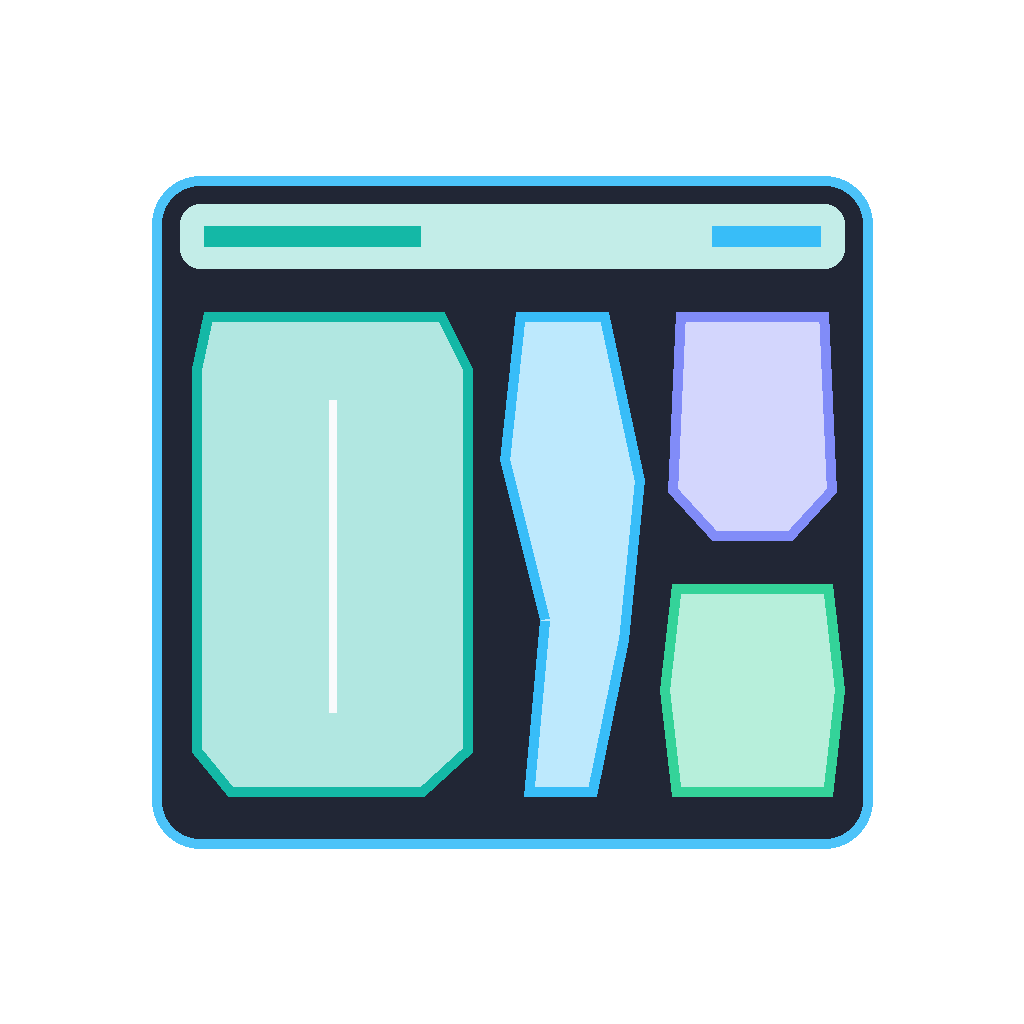
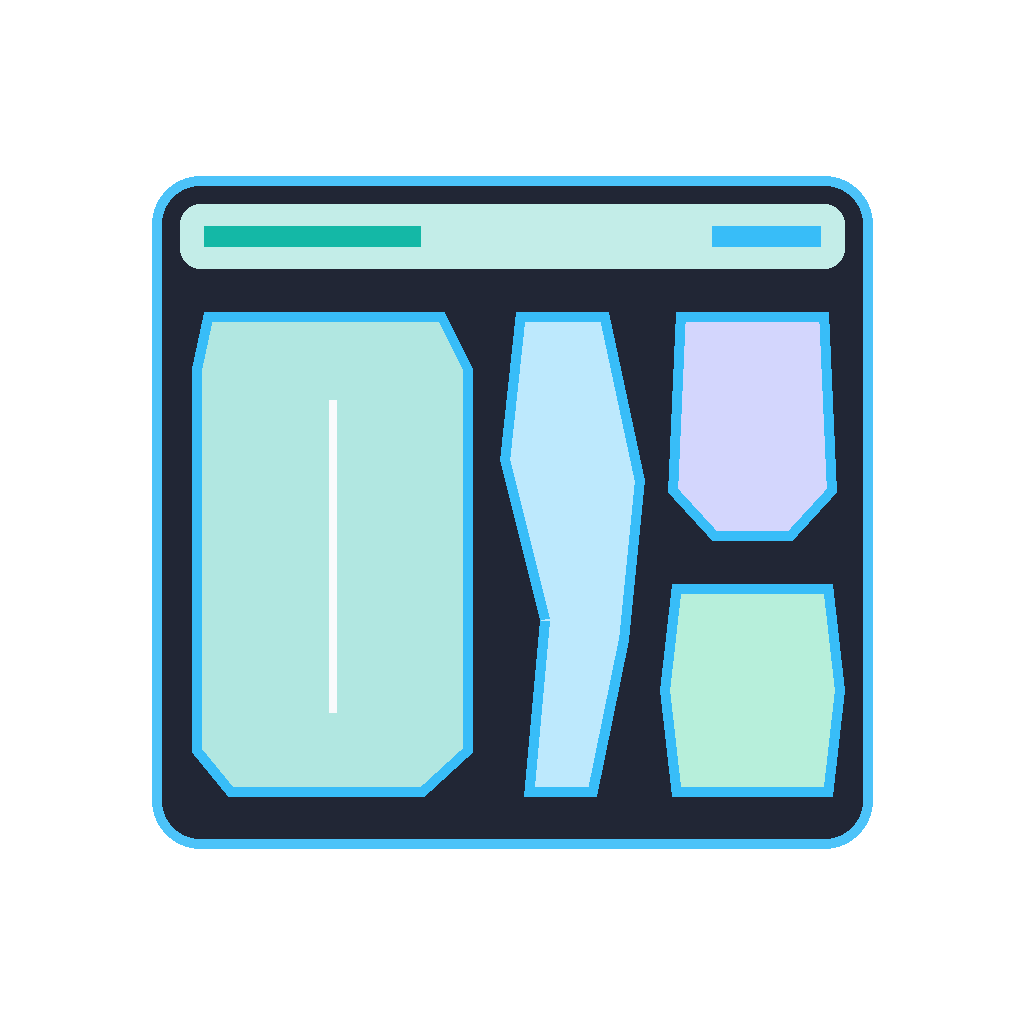
Update Mini Marker Studio 2026-11-25 13:09

Changed region(s): [[0.1875, 0.2812, 0.4688, 0.7812], [0.625, 0.5625, 0.8438, 0.7812], [0.6562, 0.2812, 0.8438, 0.5312]]

diff --git a/www/app.js b/www/app.js
@@ -1344,7 +1344,7 @@ function generateMiniMarker() {
       const effH = piece.autoRotate90 ? piece.width : piece.height;
       const drawSideBySide = false;
       const isGiant = (cSpan > 1 || rSpan > 1);
-      const pairScale = isGiant ? (piece.maxAllowedScale || globalUniformScale) : Math.min(globalUniformScale, piece.maxAllowedScale || globalUniformScale);
+      const pairScale = (isGiant ? (piece.maxAllowedScale || globalUniformScale) : Math.min(globalUniformScale, piece.maxAllowedScale || globalUniformScale)) * (piece.customScale || 1);
       const finalW = effW * pairScale, finalH = eh_val = effH * pairScale;
       const finalX = cx + leftOffset + (maxDrawW - finalW) / 2;
       const finalY = cy + topSpace + (maxDrawH - finalH) / 2;
@@ -1405,7 +1405,7 @@ function generateMiniMarker() {
             const py = finalY + ry * pairScale;
             if (i === 0) ctx.moveTo(px, py); else ctx.lineTo(px, py);
           });
-          ctx.strokeStyle = poly.isOuter ? '#0055ff' : '#64748b';
+          ctx.strokeStyle = poly.isOuter ? '#0000ff' : '#64748b';
           ctx.lineWidth = poly.isOuter ? 2.1 : 0.9;
           if (poly.isOuter) ctx.closePath();
           ctx.stroke();
@@ -3131,7 +3131,7 @@ function buildEditableVectorPdf() {
       const maxDrawW = Math.max(cellW - leftOffset - rightSpace, 24), maxDrawH = Math.max(cellH - topSpace - bottomSpace, 24);
       const ew = piece.autoRotate90 ? piece.height : piece.width, eh = piece.autoRotate90 ? piece.width : piece.height;
       const isGiant = (cSpan > 1 || rSpan > 1);
-      const pairScale = isGiant ? (piece.maxAllowedScale || globalUniformScale) : Math.min(globalUniformScale, piece.maxAllowedScale || globalUniformScale);
+      const pairScale = (isGiant ? (piece.maxAllowedScale || globalUniformScale) : Math.min(globalUniformScale, piece.maxAllowedScale || globalUniformScale)) * (piece.customScale || 1);
       const finalW = ew * pairScale, finalH = eh * pairScale;
       const finalX = cx + leftOffset + (maxDrawW - finalW) / 2, finalY = cy + topSpace + (maxDrawH - finalH) / 2;
       const centerDrawX = finalX + finalW / 2;
@@ -3270,7 +3270,7 @@ function buildCorelEditableSvg() {
     const leftOffset = (circleR * 2) + 8, rightSpace = p.qtyLabel ? 34 : 10;
     const maxDrawW = Math.max(cellW - leftOffset - rightSpace, 24), maxDrawH = Math.max(cellH - topSpace - bottomSpace, 24);
     const ew = p.autoRotate90 ? p.height : p.width, eh = p.autoRotate90 ? p.width : p.height;
-    const sc = Math.min(globalScale, p.maxAllowedScale || globalScale), finalW = ew * sc, finalH = eh * sc;
+    const sc = (Math.min(globalScale, p.maxAllowedScale || globalScale) * (p.customScale || 1)), finalW = ew * sc, finalH = eh * sc;
     const finalX = cx + leftOffset + (maxDrawW - finalW) / 2, finalY = cy + topSpace + (maxDrawH - finalH) / 2;
     const pos = calcSmartCirclePos(p, cx, cy, cellW, finalX, finalY, finalW, finalH, circleR);
 
@@ -3282,7 +3282,7 @@ function buildCorelEditableSvg() {
       p.polygons.forEach(poly => {
         if (!poly.pts || poly.pts.length < 2) return;
         const ptsStr = poly.pts.map(pt => ((finalX + (p.autoRotate90 ? pt.y : pt.x) * sc).toFixed(2) + ',' + (finalY + (p.autoRotate90 ? pt.x : pt.y) * sc).toFixed(2))).join(' ');
-        out.push('<' + (poly.isOuter ? 'polygon' : 'polyline') + ' points="' + ptsStr + '" fill="none" stroke="' + (poly.isOuter ? '#0055ff' : '#64748b') + '" stroke-width="' + (poly.isOuter ? '2.1' : '0.9') + '"/>');
+        out.push('<' + (poly.isOuter ? 'polygon' : 'polyline') + ' points="' + ptsStr + '" fill="none" stroke="' + (poly.isOuter ? '#0000ff' : '#64748b') + '" stroke-width="' + (poly.isOuter ? '2.1' : '0.9') + '"/>');
       });
     }
     const textX = (finalX + finalW / 2).toFixed(1), py1 = (finalY + finalH + labelSize + 4).toFixed(1);
@@ -3497,15 +3497,38 @@ window.openQuickPatternEditor = function(piece) {
         </div>
       </div>
 
-      <div style="display:flex; gap:8px; margin-top:6px;">
-        <button type="button" id="qpSaveBtn" class="btn" style="flex:1.4; padding:11px; font-size:13px; margin:0;">💾 TERAPKAN</button>
+      <div style="margin-bottom:8px;">
+          <label style="font-size:11px; color:var(--muted); display:block; margin-bottom:4px;">SKALA PATTERN INI (ANGKA PENGALI):</label>
+          <div style="display:flex; align-items:center; gap:6px;">
+            <button type="button" id="qpScaleMinus" style="width:42px; height:36px; border-radius:8px; border:1px solid rgba(20,184,166,0.5); background:#141b29; color:#5eead4; font-size:18px; font-weight:800; cursor:pointer;">-</button>
+            <input type="number" id="qpScale" step="0.1" min="0.2" max="3.0" value="${Number(piece.customScale || 1).toFixed(1)}" style="flex:1; text-align:center; font-weight:800; font-size:14px; margin:0;" />
+            <button type="button" id="qpScalePlus" style="width:42px; height:36px; border-radius:8px; border:1px solid rgba(20,184,166,0.5); background:#141b29; color:#5eead4; font-size:18px; font-weight:800; cursor:pointer;">+</button>
+          </div>
+        </div>
+        <div style="display:flex; gap:8px; margin-top:6px;">
+          <button type="button" id="qpSaveBtn" class="btn" style="flex:1.4; padding:11px; font-size:13px; margin:0;">💾 TERAPKAN</button>
         <button type="button" onclick="document.getElementById('quickPatternModal').style.display='none'" class="btn btn-secondary" style="flex:0.8; padding:11px; font-size:12px; margin:0;">BATAL</button>
       </div>
     </div>
   `;
   modal.style.display = "flex";
 
+  const applyLivePieceScale = (delta) => {
+    const inp = document.getElementById("qpScale");
+    if (!inp) return;
+    let v = Math.round(((parseFloat(inp.value) || 1) + delta) * 10) / 10;
+    v = Math.min(3.0, Math.max(0.2, v));
+    inp.value = v.toFixed(1);
+    piece.customScale = v;
+    if (typeof forceInstantCanvasRefresh === "function") forceInstantCanvasRefresh();
+    else if (typeof generateMiniMarker === "function") generateMiniMarker();
+  };
+  document.getElementById("qpScaleMinus").onclick = () => applyLivePieceScale(-0.1);
+  document.getElementById("qpScalePlus").onclick = () => applyLivePieceScale(0.1);
+  document.getElementById("qpScale").onchange = () => applyLivePieceScale(0);
+
   document.getElementById("qpSaveBtn").onclick = function() {
+    piece.customScale = Math.min(3.0, Math.max(0.2, parseFloat(document.getElementById("qpScale").value) || 1));
     piece.name = (document.getElementById("qpName").value || piece.name).trim().toUpperCase();
     piece.sizeText = (document.getElementById("qpSize").value || piece.sizeText).trim();
     piece.fabric = document.getElementById("qpFab").value || piece.fabric;
@@ -3738,7 +3761,7 @@ function handleLululemonExcelUpload(event) {
 
       workbook.SheetNames.forEach(sheetName => {
         const rows = XLSX.utils.sheet_to_json(workbook.Sheets[sheetName], { header: 1, defval: '' });
-        let curBuyer = '', curModel = '', curCw = '', hdr = null;
+        let curBuyer = '', curModel = '', curCw = '', blockColor = '', hdr = null;
 
         rows.forEach(rawRow => {
           const cells = rawRow.map(c => String(c || '').trim());
@@ -3753,6 +3776,7 @@ function handleLululemonExcelUpload(event) {
             }
             if (/^COLORWAY\s*:/i.test(c)) {
               curCw = c.replace(/^COLORWAY\s*:/i, '').trim();
+              blockColor = '';
               hdr = null;
             }
           });
@@ -3790,7 +3814,8 @@ function handleLululemonExcelUpload(event) {
           const specName = hdr.spec !== -1 ? (cells.at(hdr.spec) || '') : '';
           const rowColor = (hdr.color < cells.length ? (cells.at(hdr.color) || '') : '').trim().toUpperCase();
 
-          const cwLabel = (curCw || rowColor || curBuyer || 'LULULEMON-DEFAULT').toUpperCase();
+          if (rowColor && rowColor !== '_' && !blockColor) blockColor = rowColor;
+          const cwLabel = (curCw || blockColor || rowColor || curBuyer || 'LULULEMON-DEFAULT').toUpperCase();
           if (!excelColorways[cwLabel]) {
             excelColorways[cwLabel] = {
               cleanColor: cwLabel,

diff --git a/www/sw.js b/www/sw.js
@@ -1,4 +1,4 @@
-const CACHE_NAME = 'minimarker-v4-live-v6';
+const CACHE_NAME = 'minimarker-v4-live-v11';
 self.addEventListener('install', (e) => { self.skipWaiting(); });
 self.addEventListener('activate', (e) => {
   e.waitUntil(
